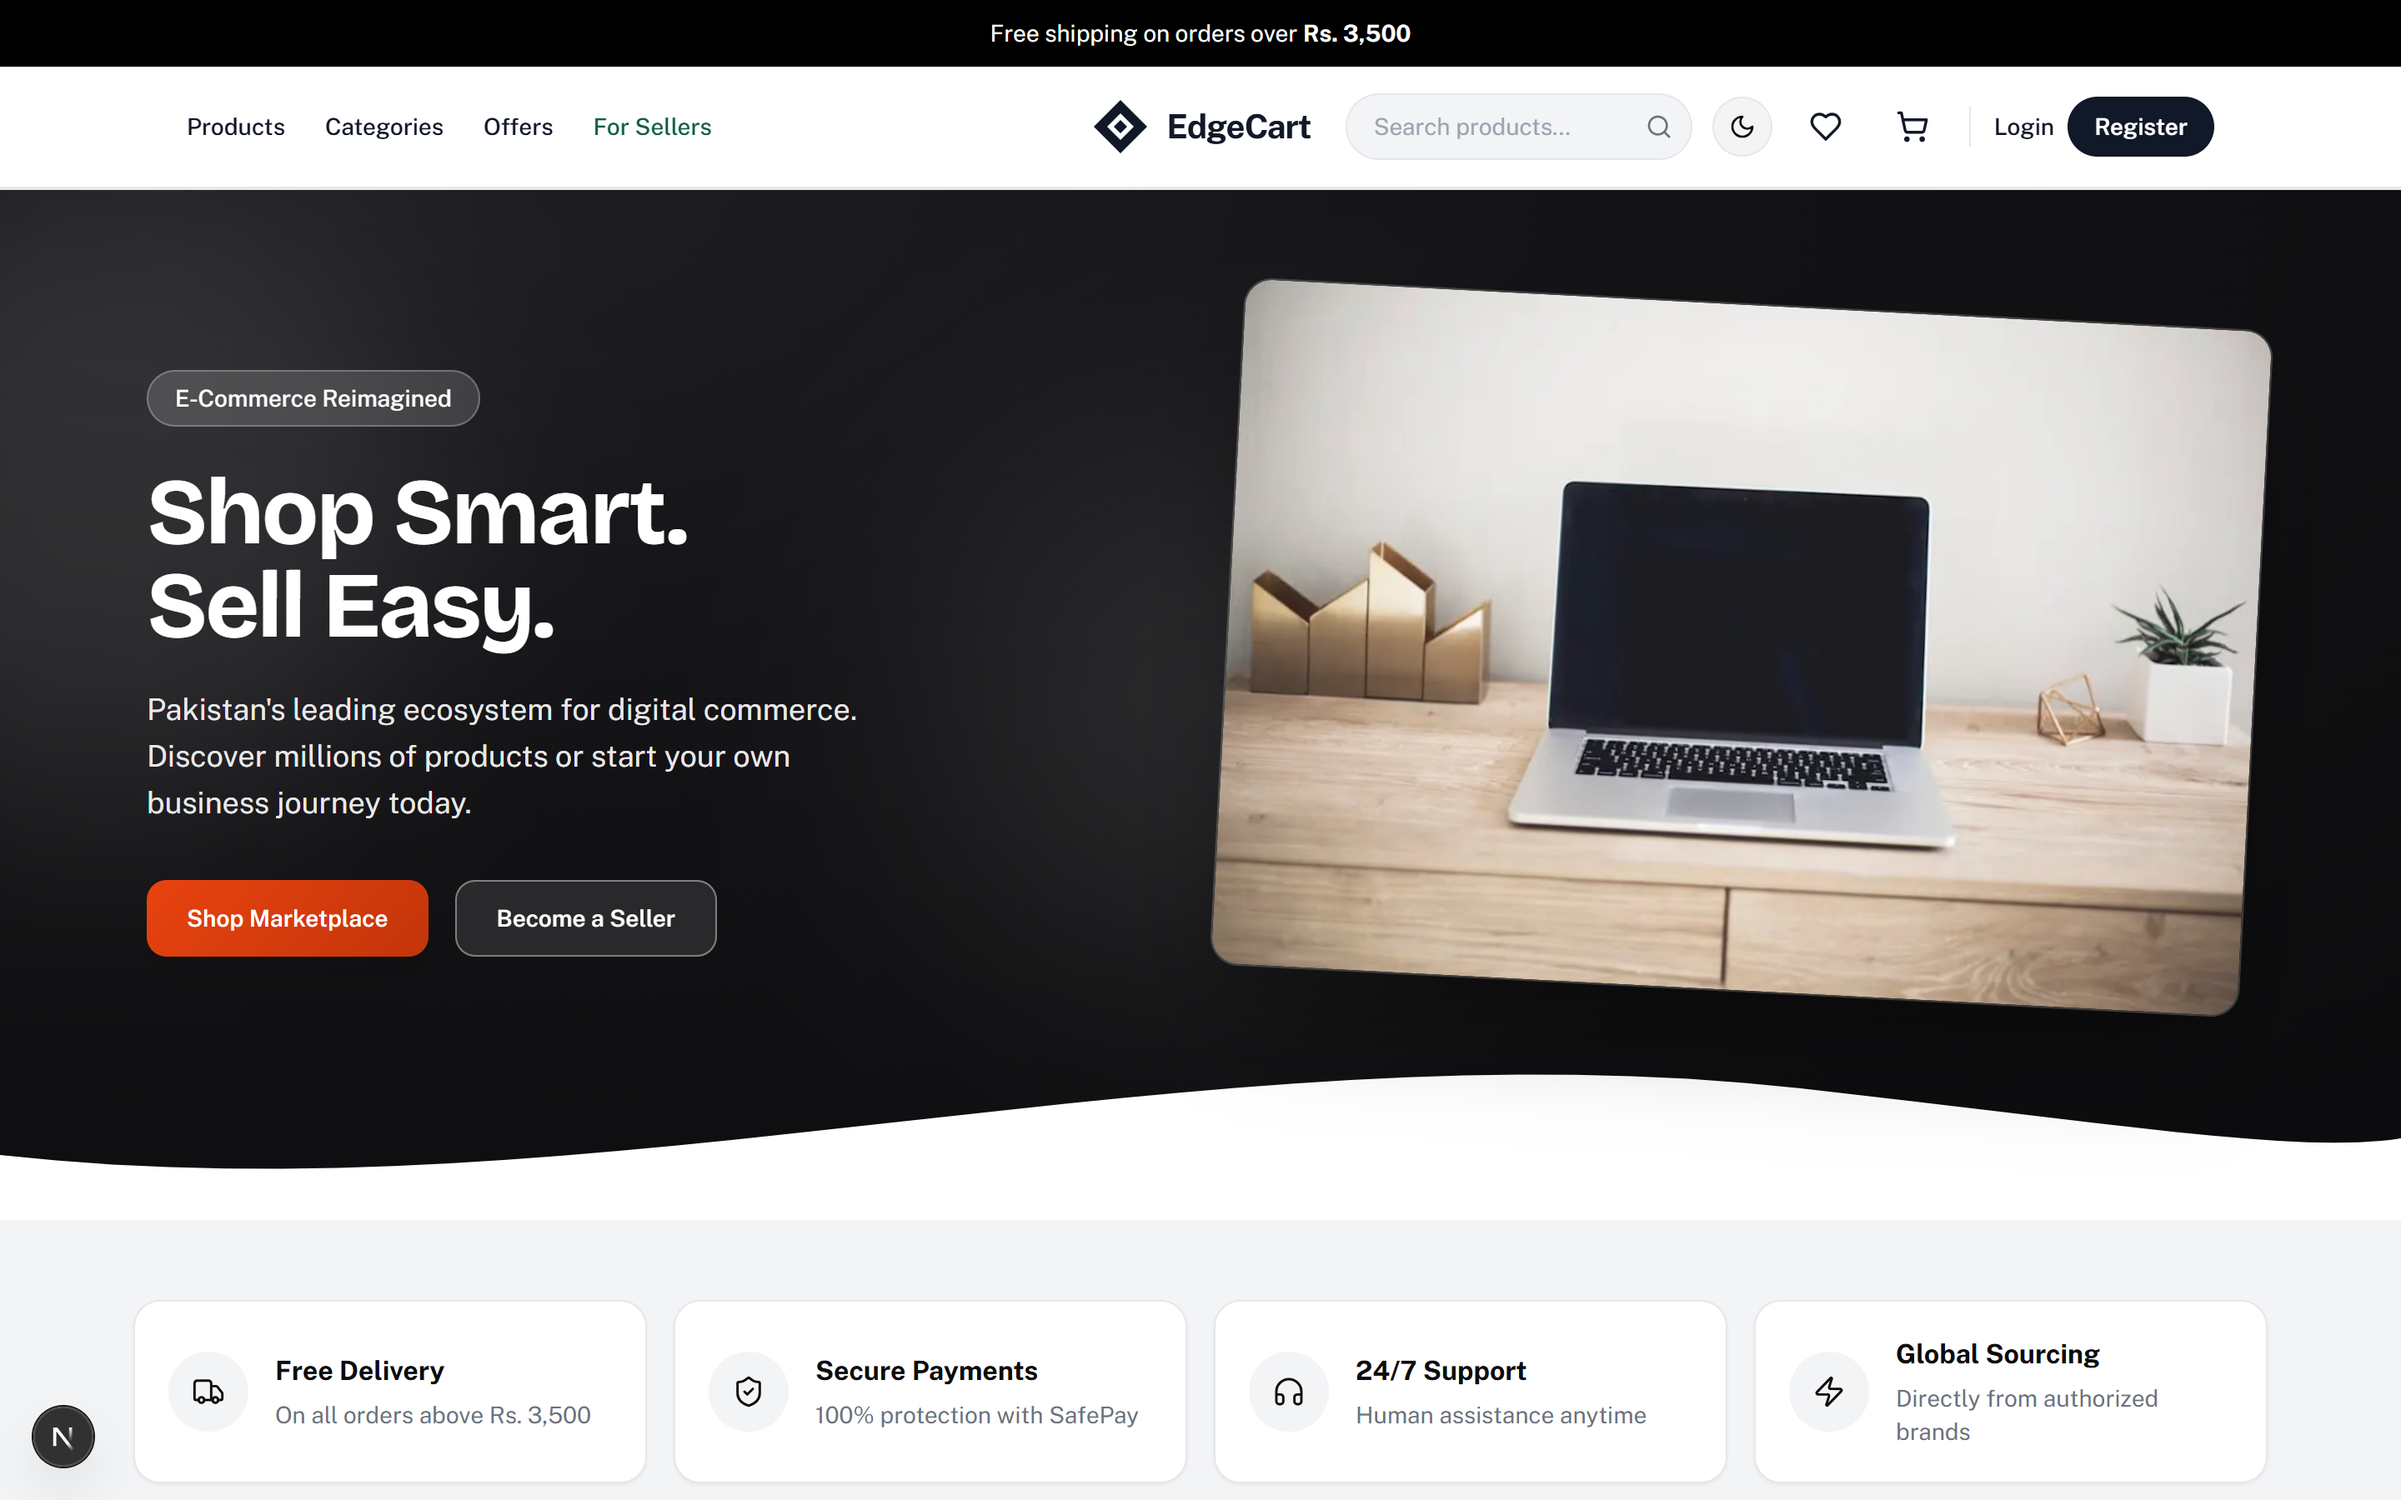
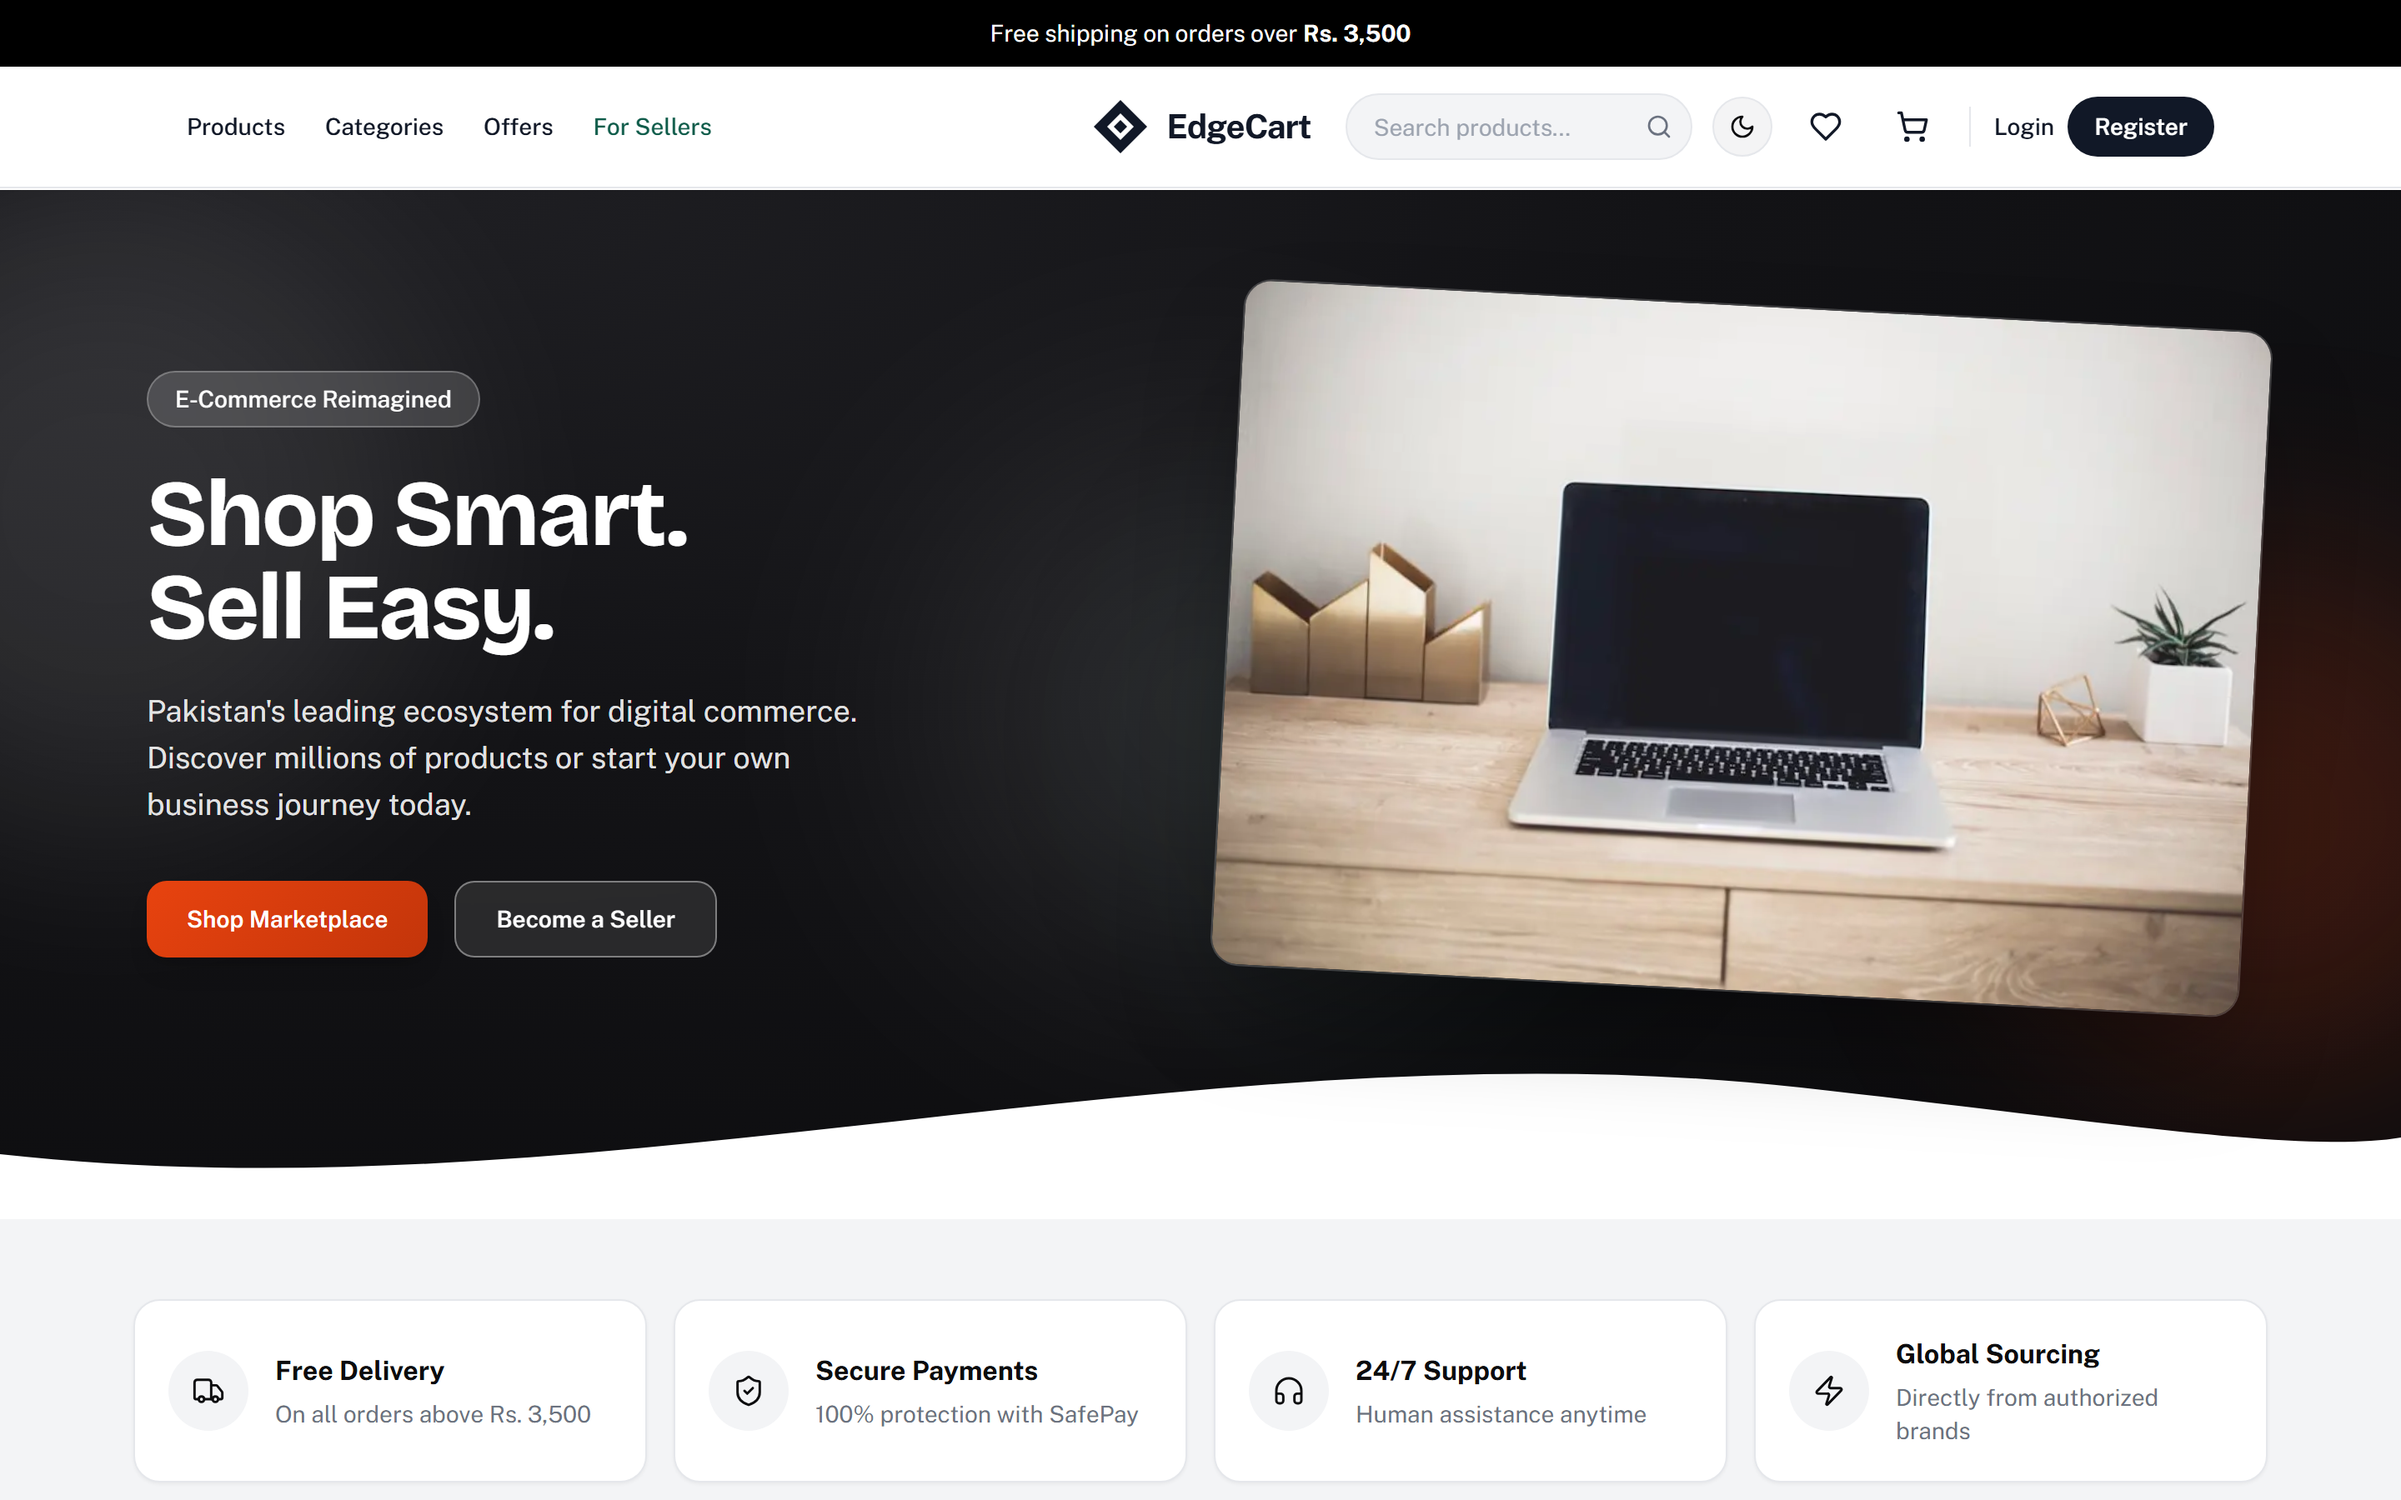
README: show the storefront in both themes, and warn about the API port
The home shot was taken before the colour fix. Retook it and added the dark one
beside it, since the theming is one of the things worth seeing at a glance.

Also noted that the frontend proxy targets the port the dotnet run profiles use.
Starting the API under IIS Express instead is silent — the site loads and then
every /bff call answers 500.

diff --git a/README.md b/README.md
@@ -95,6 +95,14 @@ It's built as a portfolio project — every feature below is implemented and wor
 
 ## Screenshots
 
+**Light and dark** — the theme follows the system preference on a first visit and is
+remembered after that. Every colour is a CSS variable, so both themes come from one set of
+components.
+
+| | |
+|---|---|
+| ![Storefront, light theme](docs/screenshots/home.png) | ![Storefront, dark theme](docs/screenshots/home-dark.png) |
+
 **Products sold in options** — each size carries its own price and stock, so the page shows a
 "from" price until one is picked, and the stock line follows the selection.
 
@@ -234,6 +242,11 @@ npm run dev
 ```
 
 Open `http://localhost:3000`.
+
+> The frontend proxies `/bff` to whatever `BACKEND_API_URL` points at, which defaults to
+> `http://localhost:5241` — the port the `dotnet run` profiles use. Launching the API from
+> Visual Studio under **IIS Express** instead puts it on a different port, and every request
+> through the proxy answers 500 until the two agree.
 
 ### Demo accounts
 
